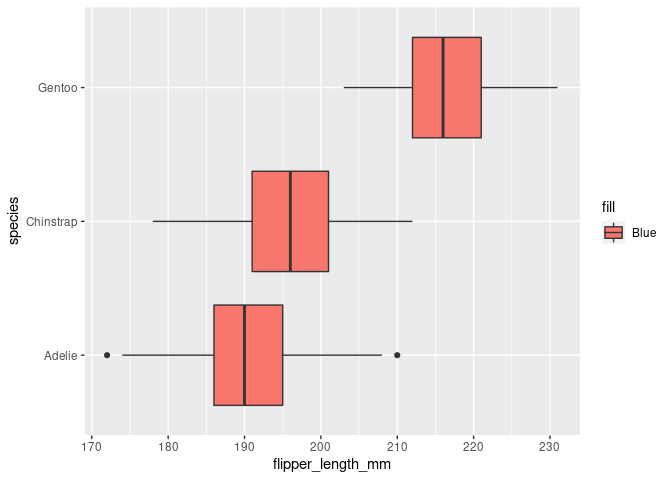
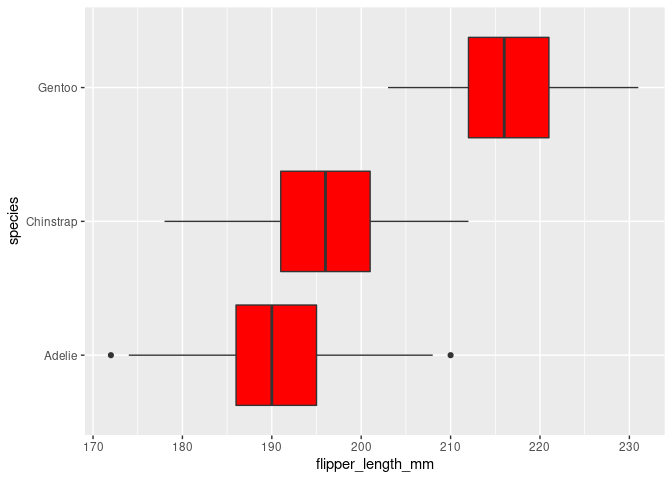
completed the combined task, knit 2/

diff --git a/activity02-ggplot2-intro.md b/activity02-ggplot2-intro.md
@@ -147,8 +147,8 @@ code (i.e., replacing the `___`) to have our comparative boxplots also
 include some coloring.
 
 ``` r
-ggplot(data = penguins, mapping = aes(x = flipper_length_mm, y = species, fill= "Blue")) +
-  geom_boxplot()
+ggplot(data = penguins, mapping = aes(x = flipper_length_mm, y = species)) +
+  geom_boxplot(fill= "Red")
 ```
 
     ## Warning: Removed 2 rows containing non-finite values (stat_boxplot).
@@ -157,8 +157,8 @@ ggplot(data = penguins, mapping = aes(x = flipper_length_mm, y = species, fill= 
 
 Now, comment on what you notice from these boxplots.
 
-**Response**: well i did fill blue but it didnt actually fill blue,
-insteasd it filled red, but the spaces were in a spot where
+**Response**: well i did fill red and i made sure it was in the mapping
+section of the boxplot and not the basis of the ggplot.
 
 Another way to visualize distributions are with points. You may have
 heard of dotplots before (one-dimensional scatterplots). We can create
@@ -166,8 +166,8 @@ something similar with jitterplots using `geom_jitter`. In the code
 chunk below, complete it so that it produces a jitterplot.
 
 ``` r
-ggplot(data = penguins, mapping = aes(x = flipper_length_mm, y = species, fill = "red")) +
-  geom_jitter()
+ggplot(data = penguins, mapping = aes(x = flipper_length_mm, y = species)) +
+  geom_jitter(color = "red")
 ```
 
     ## Warning: Removed 2 rows containing missing values (geom_point).
@@ -183,7 +183,7 @@ boxplot? What about the jitterplot?
 From the boxplot i can easily determine the average bill length and the
 type of penguin that encompasses that length
 
-As for the jitterplot i can see the more concentrated values and where
+As for the jitterplot I can see the more concentrated values and where
 the “heaviest” amount of the plots are or where most of the bill lengths
 fall a bit more specifically.
 
@@ -193,7 +193,10 @@ and compare/contrast your `activity02-ggplot2-intro.Rmd` and
 `activity02-ggplot2-intro.md` files. Which is easier to read? Which
 looks more professional?
 
-**Response**:
+**Response**: The knit version is much more professional and I am
+completely able to read it and understand it, the previous Rmd is really
+messy and doesnt look like a nice document. It also very nicely shows
+the responses.
 
 Now, wouldn’t it be nice if we could combine these two plots so that we
 get the benefits of both!?! That is, how can we overlay the jitterplot
@@ -203,10 +206,25 @@ my *hint*:
 -   Re-create the boxplot with color that you did above, then
 -   *Add* another geometry layer for the jitterplot.
 
+``` r
+ggplot(data = penguins, mapping = aes(x = flipper_length_mm, y = species)) +
+  geom_boxplot(fill= "Red") + geom_jitter()
+```
+
+    ## Warning: Removed 2 rows containing non-finite values (stat_boxplot).
+
+    ## Warning: Removed 2 rows containing missing values (geom_point).
+
+![](activity02-ggplot2-intro_files/figure-gfm/box-jitter-combined-1.png)<!-- -->
+
 Play around with doing the jitterplot laid over the boxplot and the
 boxplot laid over the jitterplot. Which do you prefer? Why?
 
-**Response**:
+**Response**: I honestly really like both of them together because we
+are able to see both the strengths and the weaknesses of both graphs and
+it really isnt too confusing to read the data! I can see the
+concentration of each particular data collected and the overall in the
+boxplot.
 
 This is getting us closer to one of my favorite plots - the raincloud
 plot. We are not quite ready to create this plot, but we will get there
@@ -220,12 +238,25 @@ default white coloring. In the code chunk below, explore different
 methods to try to create this plot. A hint, all `geom_*` have a
 `mapping` argument.
 
+``` r
+ggplot(data = penguins, mapping = aes(x = flipper_length_mm, y = species)) +
+  geom_boxplot() + geom_jitter(color = "red")
+```
+
+    ## Warning: Removed 2 rows containing non-finite values (stat_boxplot).
+
+    ## Warning: Removed 2 rows containing missing values (geom_point).
+
+![](activity02-ggplot2-intro_files/figure-gfm/jitter-colored-only-1.png)<!-- -->
+
 In the above code chunk, continue to play around with having the
 aesthetics mapped in the different layers. For example, how does having
 all of them mapped in the `ggplot` call compared to having these instead
 mapped in the `geom_boxplot` layer? Comment on what you notice.
 
-**Response**:
+**Response**: The aestetics being in the main ggplot changes them for
+the entire code but when we change them in the boxplot or the jitter it
+is more specifically for that section alone.
 
 Knit, stage, commit (with a meaningful commit message),and push
 everything in your **Git** pane to your GitHub repo. Go to GitHub and
